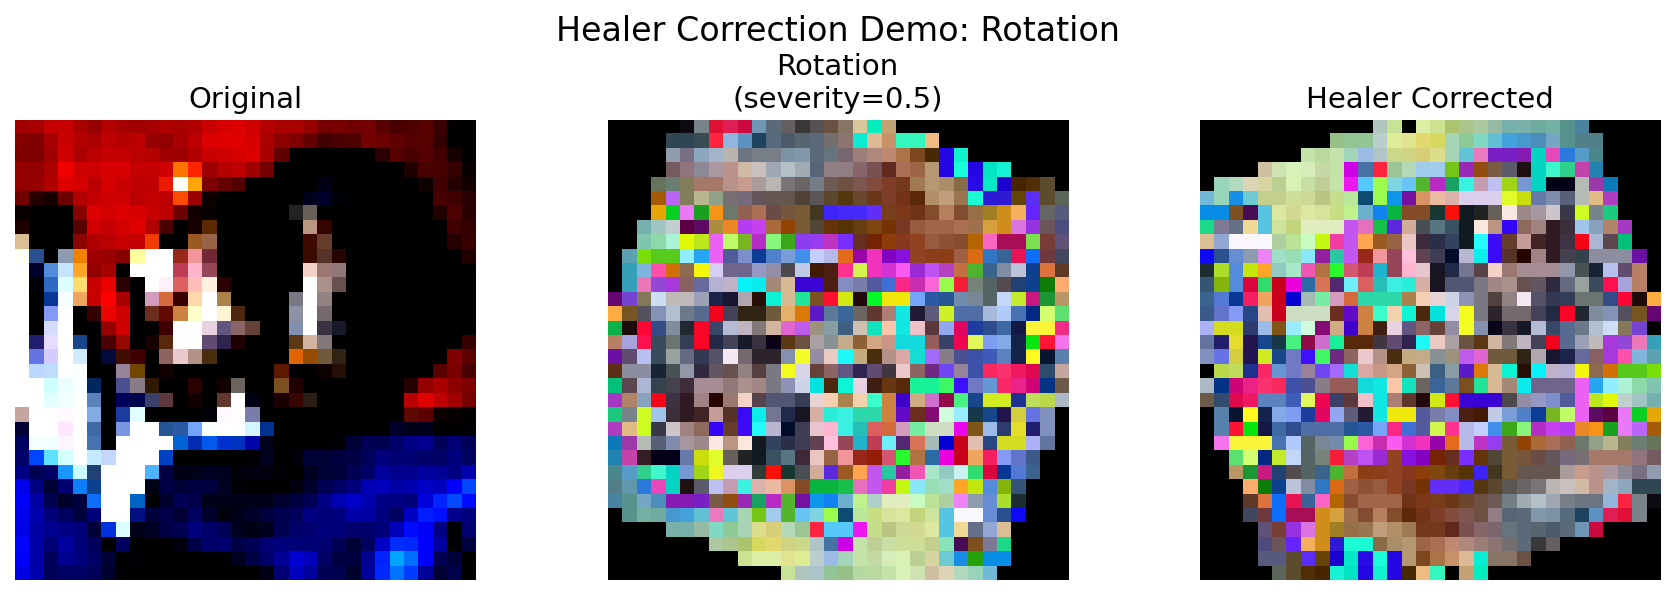
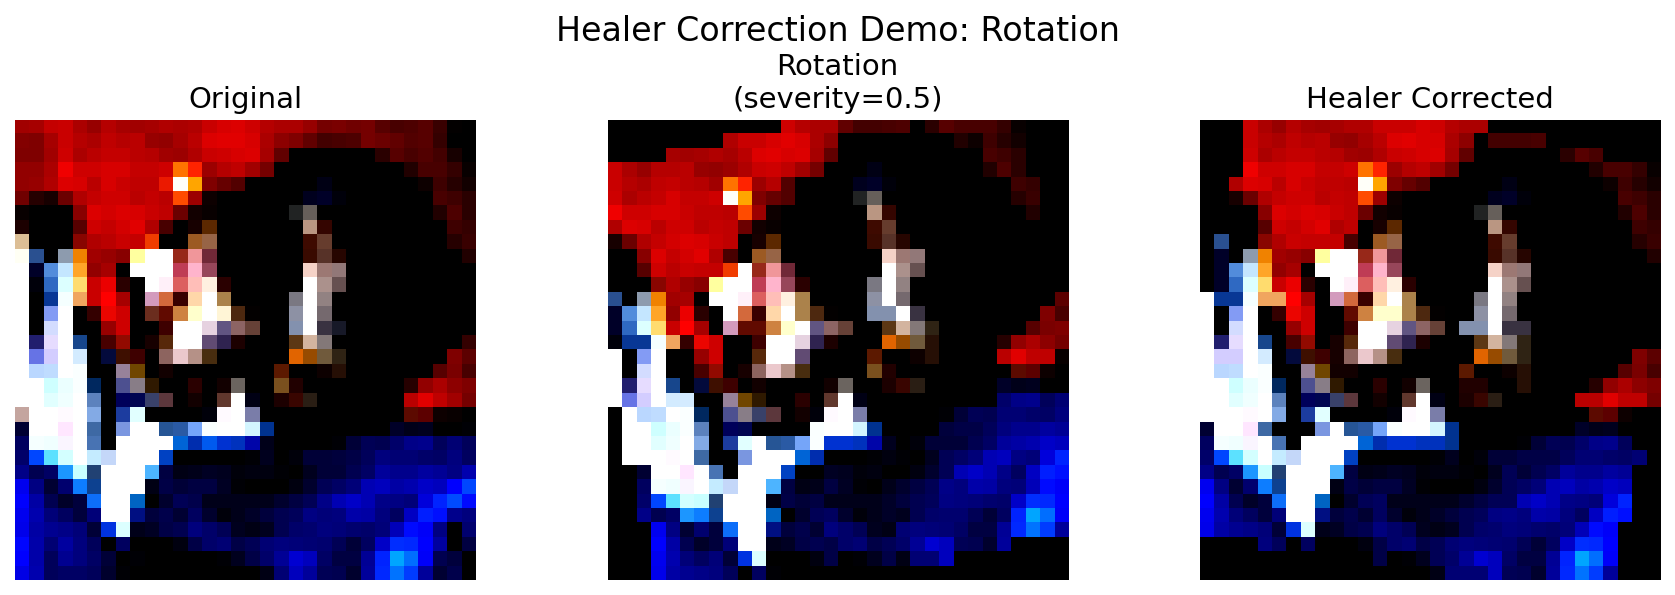
might have found the bug

diff --git a/rendu/src/data/continuous_transforms.py b/rendu/src/data/continuous_transforms.py
@@ -13,7 +13,7 @@ class ContinuousTransforms:
     def __init__(self, severity=1.0):
         self.severity = severity
         self.transform_types = ['no_transform', 'gaussian_noise', 'rotation', 'affine']
-        self.transform_probs = [0.3, 1.0, 1.0, 1.0]  # TODO config
+        self.transform_probs = [1.0, 1.0, 1.0, 1.0]  # TODO config
         
     def apply_transforms(self, img, transform_type=None, severity=None, return_params=False):
         """
@@ -63,10 +63,14 @@ class ContinuousTransforms:
             max_angle = MAX_ROTATION * severity
             angle = random.uniform(-max_angle, max_angle)
             
-            # we must use CPU for PIL operations ?
-            img_cpu = img.cpu()
-            to_pil = transforms.ToPILImage()
+            # Ensure image is in valid range before PIL conversion
+            img_clamped = torch.clamp(img, 0, 1)
+            img_cpu = img_clamped.cpu()
+            
+            # Use proper mode for PIL conversion
+            to_pil = transforms.ToPILImage(mode='RGB')
             to_tensor = transforms.ToTensor()
+            
             pil_img = to_pil(img_cpu)
             rotated_img = transforms.functional.rotate(pil_img, angle)
             transformed_img = to_tensor(rotated_img).to(device)  
@@ -81,10 +85,14 @@ class ContinuousTransforms:
             shear_x = random.uniform(-max_shear, max_shear)
             shear_y = random.uniform(-max_shear, max_shear)
             
-            # CPU for PIL
-            img_cpu = img.cpu()
-            to_pil = transforms.ToPILImage()
+            # Ensure image is in valid range before PIL conversion
+            img_clamped = torch.clamp(img, 0, 1)
+            img_cpu = img_clamped.cpu()
+            
+            # Use proper mode for PIL conversion
+            to_pil = transforms.ToPILImage(mode='RGB')
             to_tensor = transforms.ToTensor()
+            
             pil_img = to_pil(img_cpu)
             
             width, height = pil_img.size
@@ -123,7 +131,7 @@ class ContinuousTransforms:
             return_params: If True, return the transformation parameters
             
         Returns:
-            transformed_img: The transformed image (without clamping)
+            transformed_img: The transformed image (without clamping for noise, but clamped for PIL operations)
             transform_params: Dictionary of transformation parameters (if return_params=True)
         """
         device = img.device
@@ -153,16 +161,20 @@ class ContinuousTransforms:
             std = severity * MAX_STD_GAUSSIAN_NOISE
             noise = torch.randn_like(img, device=device) * std
             transformed_img = img + noise
-            # NO CLAMPING - values can go outside [0,1] range ?
+            # NO CLAMPING - values can go outside [0,1] range
             transform_params['noise_std'] = std
             
         elif transform_type == 'rotation':
             max_angle = MAX_ROTATION * severity
             angle = random.uniform(-max_angle, max_angle)
             
-            img_cpu = img.cpu()
-            to_pil = transforms.ToPILImage()
+            # Must clamp for PIL conversion even in unnormalized version
+            img_clamped = torch.clamp(img, 0, 1)
+            img_cpu = img_clamped.cpu()
+            
+            to_pil = transforms.ToPILImage(mode='RGB')
             to_tensor = transforms.ToTensor()
+            
             pil_img = to_pil(img_cpu)
             rotated_img = transforms.functional.rotate(pil_img, angle)
             transformed_img = to_tensor(rotated_img).to(device)  
@@ -177,9 +189,13 @@ class ContinuousTransforms:
             shear_x = random.uniform(-max_shear, max_shear)
             shear_y = random.uniform(-max_shear, max_shear)
             
-            img_cpu = img.cpu()
-            to_pil = transforms.ToPILImage()
+            # Must clamp for PIL conversion even in unnormalized version
+            img_clamped = torch.clamp(img, 0, 1)
+            img_cpu = img_clamped.cpu()
+            
+            to_pil = transforms.ToPILImage(mode='RGB')
             to_tensor = transforms.ToTensor()
+            
             pil_img = to_pil(img_cpu)
             
             width, height = pil_img.size
